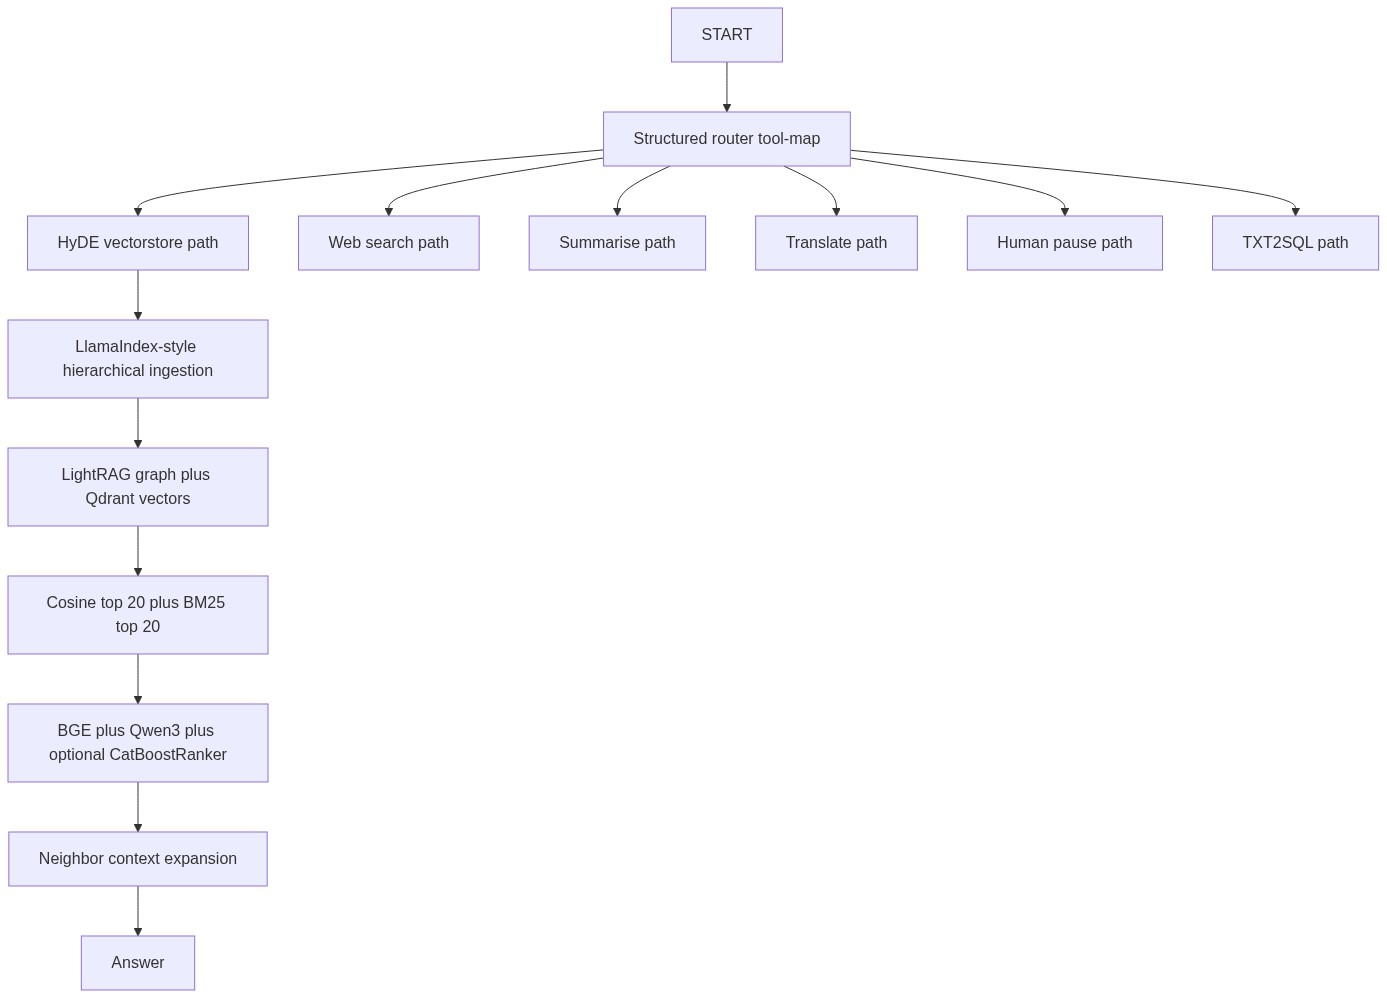
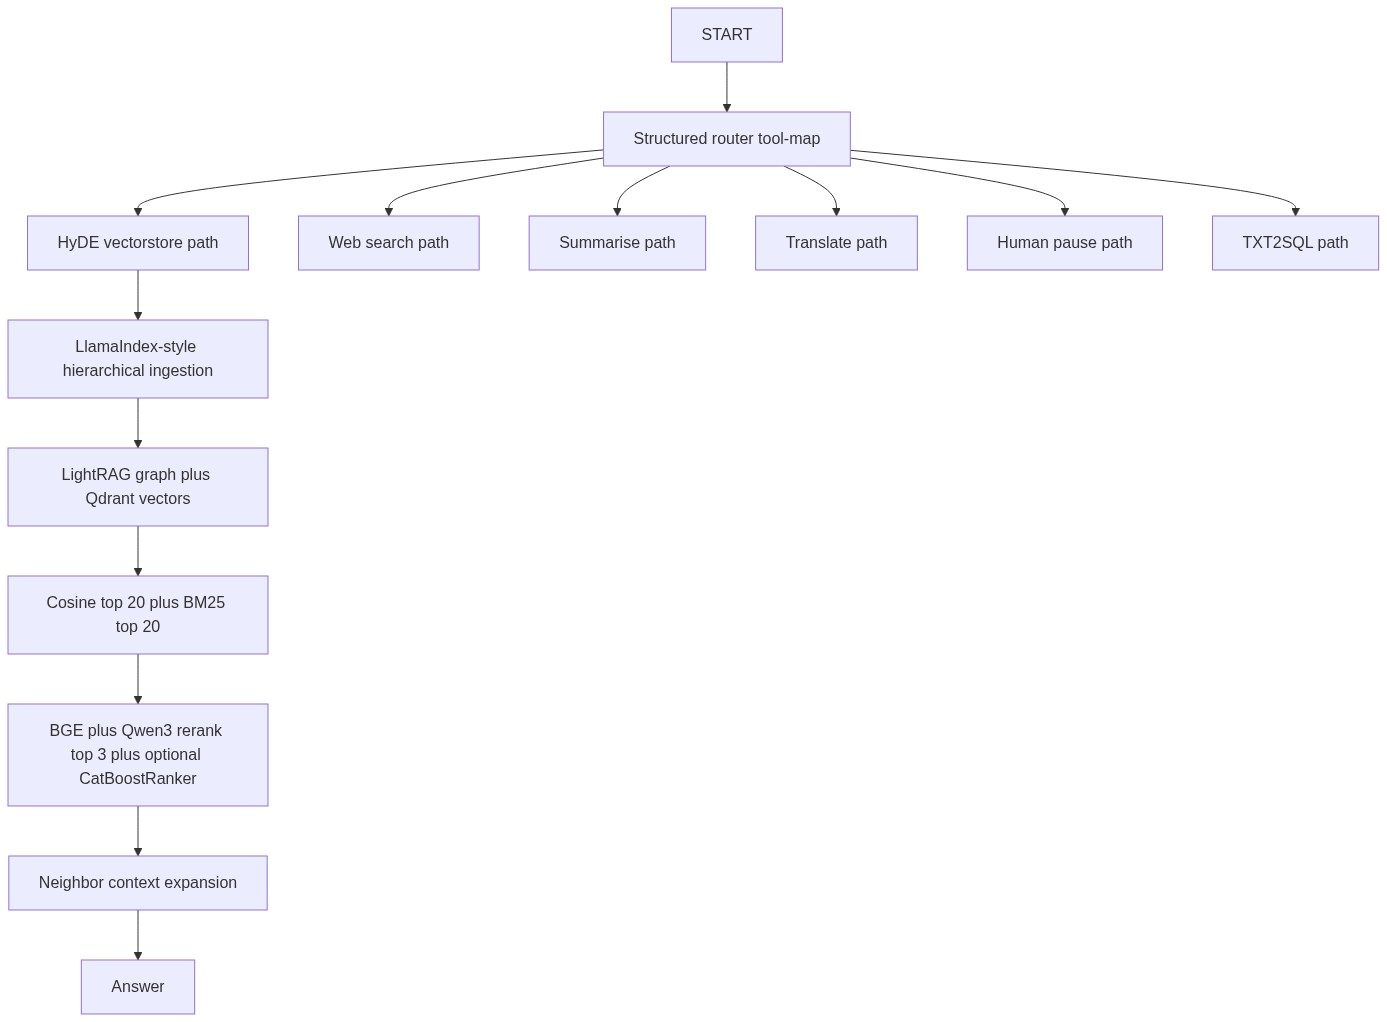
Refine retrieval candidate flow

diff --git a/rag_middle.py b/rag_middle.py
@@ -11,7 +11,7 @@ Stack:
 
 Architecture:
 - download pages -> split with overlap -> save to Chroma or FAISS;
-- MMR takes fetch_k=10 candidates and selects k=3 more distinct chunks;
+- MMR fetches 20 candidates and selects k=10 more distinct chunks;
 - lambda_mult=0.5 balances similarity and diversity;
 - LangGraph passes state between retrieve_context and generate_answer nodes;
 - the LLM returns an answer in the MiddleAnswer Pydantic schema.
@@ -79,8 +79,8 @@ RERANK_WEIGHT_GRID = [
 
 CHUNK_SIZE = 1000
 CHUNK_OVERLAP = 200
-MMR_K = 3
-MMR_FETCH_K = 10
+MMR_K = 10
+MMR_FETCH_K = 20
 MMR_LAMBDA_MULT = 0.5
 RERANK_TOP_K = 3
 WEB_SEARCH_TOP_K = 5
@@ -592,7 +592,7 @@ def save_graph_diagram(store: MiddleStore) -> None:
     mermaid_text = f"""
 flowchart TD
     q["User question"] --> router["LLM tool-calling router"]
-    router -->|vectorstore_search| vs["{store_label}: MMR fetch_k={MMR_FETCH_K}"]
+    router -->|vectorstore_search| vs["{store_label}: fetch_k={MMR_FETCH_K} -> MMR k={MMR_K}"]
     router -->|web_search| web["Web search tool"]
     vs --> rerank["Reranker top_k={RERANK_TOP_K} + eval metrics"]
     web --> rerank
@@ -621,7 +621,7 @@ def retrieve_with_chroma_mmr(user_question: str, *, rebuild_index: bool) -> list
     retriever = vectorstore.as_retriever(
         search_type="mmr",
         search_kwargs={
-            "k": MMR_FETCH_K,
+            "k": MMR_K,
             "fetch_k": MMR_FETCH_K,
             "lambda_mult": MMR_LAMBDA_MULT,
         },
@@ -633,7 +633,7 @@ def retrieve_with_faiss_mmr(user_question: str, *, rebuild_index: bool) -> list[
     faiss_bundle = build_or_load_faiss_bundle(rebuild=rebuild_index)
     documents = faiss_bundle.similarity_search_mmr(
         user_question,
-        k=MMR_FETCH_K,
+        k=MMR_K,
         fetch_k=MMR_FETCH_K,
         lambda_mult=MMR_LAMBDA_MULT,
     )
@@ -729,8 +729,8 @@ def run_rag_middle(
     ]
     result["retrieval_mode"] = f"{store}_mmr"
     result["mmr"] = {
-        "original_final_k": MMR_K,
-        "candidate_k_for_reranker": MMR_FETCH_K,
+        "k": MMR_K,
+        "candidate_k_for_reranker": MMR_K,
         "fetch_k": MMR_FETCH_K,
         "lambda_mult": MMR_LAMBDA_MULT,
     }

diff --git a/rag_junior.py b/rag_junior.py
@@ -51,6 +51,8 @@ SOURCE_URLS = [
 ]
 
 EMBEDDING_MODEL = "sentence-transformers/all-MiniLM-L6-v2"
+RETRIEVAL_TOP_K = 20
+RERANK_TOP_K = 3
 # endregion
 
 
@@ -84,11 +86,11 @@ def parse_json_response(response_content: Any) -> dict[str, Any]:
 
 
 def save_junior_diagram() -> None:
-    mermaid_text = """
+    mermaid_text = f"""
 flowchart TD
     q["User question"] --> r["InMemoryVectorStore retriever"]
-    r --> c["Default top-k chunks"]
-    c --> judge["LLM-as-a-judge reranker"]
+    r --> c["Top {RETRIEVAL_TOP_K} chunks"]
+    c --> judge["LLM-as-a-judge reranker: top {RERANK_TOP_K}"]
     judge --> m["Ollama via init_chat_model"]
     m --> json["JSON parsing"]
 """
@@ -182,7 +184,7 @@ Score means how useful this chunk is for answering the question.
         scored_documents.append((score_value, index_value, document))
 
     scored_documents.sort(key=lambda item: (item[0], -item[1]), reverse=True)
-    return [document for _, _, document in scored_documents]
+    return [document for _, _, document in scored_documents[:RERANK_TOP_K]]
 
 
 def run_rag_junior(user_question: str) -> dict[str, Any]:
@@ -193,8 +195,7 @@ def run_rag_junior(user_question: str) -> dict[str, Any]:
     with ls.tracing_context(enabled=False):
         vectorstore = build_vectorstore()
 
-        # Do not pass k explicitly: LangChain retrievers default to k=4.
-        retriever = vectorstore.as_retriever()
+        retriever = vectorstore.as_retriever(search_kwargs={"k": RETRIEVAL_TOP_K})
         retrieved_documents = retriever.invoke(user_question)
 
         llm = create_chat_model()

diff --git a/rag_senior.py b/rag_senior.py
@@ -7,7 +7,7 @@ Stack:
 - PII anonymization: NER-like detector, regex filter, and synthetic masks.
 - HyDE: the LLM first writes a hypothetical document, then searches with it.
 - Hybrid retrieval: semantic cosine top_k=20 + BM25 top_k=20 -> merge.
-- Reranker: narrows candidates to top_k=5.
+- Reranker: narrows candidates to top_k=3.
 - Grader: verifies document relevance with yes/no decisions.
 - Fallback: web search when suitable documents are not found.
 - Context builder: assembles a controlled prompt context.
@@ -73,7 +73,7 @@ CHUNK_OVERLAP = 200
 SEMANTIC_TOP_K = 20
 BM25_TOP_K = 20
 HYBRID_TOP_K = 20
-RERANK_TOP_K = 5
+RERANK_TOP_K = 3
 MIN_GRADED_DOCS = 2
 SENIOR_CONTEXT_CHAR_BUDGET = 180_000
 MAX_CORRECTION_ATTEMPTS = 2
@@ -866,7 +866,7 @@ flowchart TD
     mcp --> pii["PII anonymization: NER + regex masks"]
     pii --> hyde["HyDE pseudo-document"]
     hyde --> ret["{store_label}: semantic top_k=20 + BM25 top_k=20"]
-    ret --> rerank["BAAI/bge-reranker-base top_k=5"]
+    ret --> rerank["BAAI/bge-reranker-base top_k=3"]
     rerank --> grade["Document grader yes/no"]
     grade -->|enough good docs| ctx["Context builder"]
     grade -->|not enough docs| fallback["Fallback web search"]
@@ -924,7 +924,7 @@ async def run_rag_senior(
             "semantic_top_20",
             "bm25_top_20",
             "hybrid_merge",
-            "bge_reranker_top_5",
+            "bge_reranker_top_3",
             "grader_yes_no",
             "fallback_web_search",
             "context_builder",

diff --git a/rag_staff.py b/rag_staff.py
@@ -68,7 +68,7 @@ CHILD_OVERLAP = 80
 SEMANTIC_TOP_K = 20
 BM25_TOP_K = 20
 HYBRID_TOP_K = 20
-RERANK_TOP_K = 8
+RERANK_TOP_K = 3
 FINAL_TOP_K = 5
 CONTEXT_CONTINUITY_THRESHOLD = 0.72
 CATBOOST_MIN_TRAINING_ROWS = 200
@@ -975,7 +975,7 @@ flowchart TD
     hyde --> ingest["LlamaIndex-style hierarchical ingestion"]
     ingest --> kg["LightRAG graph plus Qdrant vectors"]
     kg --> ret["Cosine top 20 plus BM25 top 20"]
-    ret --> rerank["BGE plus Qwen3 plus optional CatBoostRanker"]
+    ret --> rerank["BGE plus Qwen3 rerank top 3 plus optional CatBoostRanker"]
     rerank --> expand["Neighbor context expansion"]
     expand --> answer["Answer"]
 """

diff --git a/README.md b/README.md
@@ -57,9 +57,9 @@ USER_AGENT=langy-rag-junior/0.1
 
 `main.py` selects the RAG level by number:
 
-- `1` - junior, InMemoryVectorStore, JSON, default splitter settings
-- `21` - middle, Chroma + MMR, `k=3`, `fetch_k=10`, `lambda_mult=0.5`
-- `22` - middle, FAISS + MMR, `k=3`, `fetch_k=10`, `lambda_mult=0.5`
+- `1` - junior, InMemoryVectorStore, retrieve 20 candidates, rerank to 3, JSON
+- `21` - middle, Chroma + MMR, `fetch_k=20`, `k=10`, rerank `top_k=3`, `lambda_mult=0.5`
+- `22` - middle, FAISS + MMR, `fetch_k=20`, `k=10`, rerank `top_k=3`, `lambda_mult=0.5`
 - `31` - senior, Weaviate-oriented async LangGraph RAG
 - `32` - senior, Qdrant-oriented async LangGraph RAG with optional PostgreSQL/pgvector sync
 - `41` - staff, Qdrant-oriented LightRAG/LlamaIndex-style graph RAG
@@ -98,8 +98,8 @@ DEFAULT_LEVEL = 1
 4. Uses an LLM tool-calling router to choose `vectorstore_search` or `web_search`.
 5. Level `21` persists vectors in Chroma.
 6. Level `22` persists vectors in FAISS.
-7. Uses MMR for vectorstore retrieval: fetches 10 candidates and selects diverse candidates with `lambda_mult=0.5`.
-8. Reranks candidates using retrieval-vs-lexical weights selected against a tiny eval set.
+7. Uses MMR for vectorstore retrieval: fetches 20 candidates and selects 10 diverse candidates with `lambda_mult=0.5`.
+8. Reranks candidates using retrieval-vs-lexical weights selected against a tiny eval set, keeping the best 3.
 9. Reports `Recall@K`, `MRR`, `MAP`, and `nDCG` when the question is in the eval set.
 10. Uses `with_structured_output(...)` with a Pydantic schema.
 11. Calls OpenAI models through `init_chat_model(...)`.
@@ -113,7 +113,7 @@ DEFAULT_LEVEL = 1
 4. Builds ensemble embeddings from `BAAI/bge-m3` and `sentence-transformers/all-MiniLM-L6-v2`.
 5. Retrieves with semantic cosine search `top_k=20` and BM25 keyword search `top_k=20`.
 6. Merges semantic and BM25 candidates into a hybrid list.
-7. Reranks to `top_k=5` with `BAAI/bge-reranker-base`.
+7. Reranks to `top_k=3` with `BAAI/bge-reranker-base`.
 8. Grades documents with yes/no relevance.
 9. Falls back to web search if too few documents pass grading.
 10. Builds a controlled context for a model with a context window greater than 64k.
@@ -132,7 +132,7 @@ DEFAULT_LEVEL = 1
 8. Retrieves with cosine top_k=20 and BM25 top_k=20, then hybrid-merges candidates.
 9. Expands context through neighboring chunks only when cosine continuity is high enough.
 10. Repairs broken next/previous navigation by checking nearby chunks in the same parent.
-11. Reranks with BGE and Qwen3 rerankers, then merges both rankings.
+11. Reranks with BGE and Qwen3 rerankers, merges both rankings, and keeps the best 3.
 12. Uses CatBoostRanker only when enough labeled ranking data exists in `staff_ltr_training.json`.
 
 ## Diagrams
